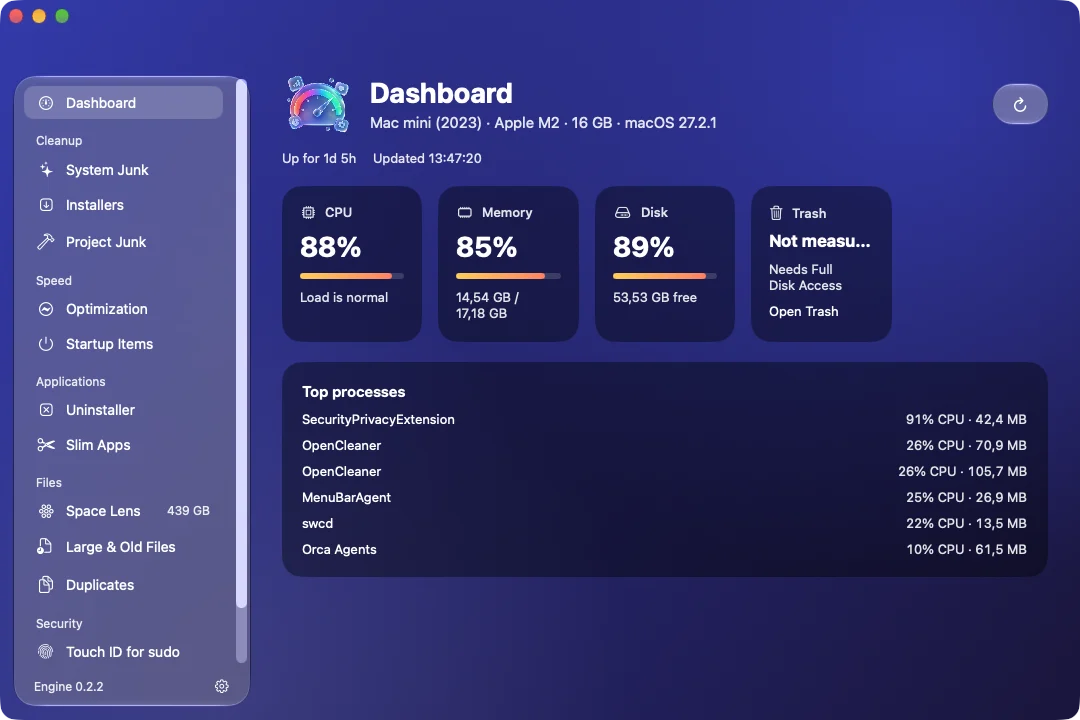
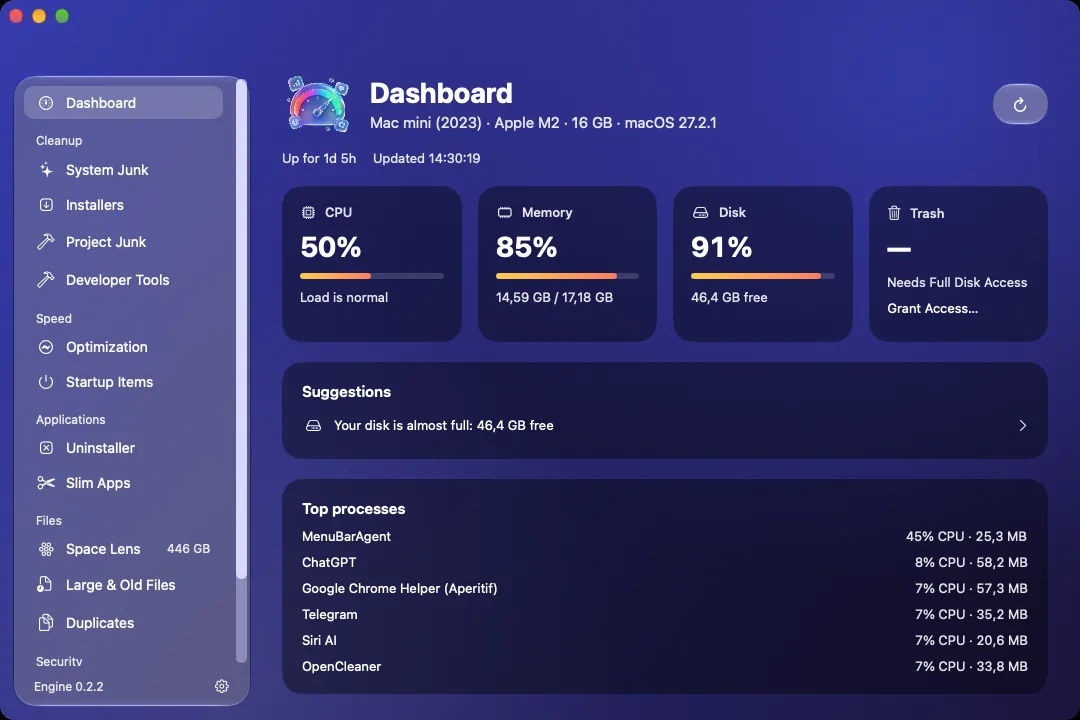
Settings > Permissions, Trash tile access link, four dashboard columns
- A Permissions tab lists Full Disk Access, App Management and Notifications:
  why each is needed, whether it is granted, and a button to its pane.
- The Trash tile without Full Disk Access shows — and a Grant Access… link.
- The dashboard tiles share the width in four columns (adaptive columns left
  an empty fifth slot and wrapped the tile text).
- Site screenshots retaken (no stale self entry, twins with paths).

diff --git a/macos/Sources/OpenCleaner/PermissionsSettings.swift b/macos/Sources/OpenCleaner/PermissionsSettings.swift
@@ -1,0 +1,86 @@
+import SwiftUI
+import UserNotifications
+
+/// Settings › Permissions: what OpenCleaner may need from macOS, whether it has it, and a
+/// button straight to the right pane of System Settings.
+struct PermissionsSettings: View {
+    @State private var fullDisk: Bool?
+    @State private var notifications: Bool?
+
+    var body: some View {
+        Form {
+            Section {
+                row(icon: "externaldrive.badge.checkmark",
+                    title: String(localized: "Full Disk Access"),
+                    why: String(localized: "Measure and empty the Trash, clean Mail attachments and read which apps have privacy permissions."),
+                    granted: fullDisk,
+                    pane: "com.apple.preference.security?Privacy_AllFiles")
+                row(icon: "app.badge.checkmark",
+                    title: String(localized: "App Management"),
+                    why: String(localized: "Uninstall apps and slim them. macOS asks the first time; allow it here if you declined."),
+                    granted: nil,
+                    pane: "com.apple.preference.security?Privacy_AppBundles")
+                row(icon: "bell.badge",
+                    title: String(localized: "Notifications"),
+                    why: String(localized: "Report scheduled cleaning and warn when the disk is almost full."),
+                    granted: notifications,
+                    pane: "com.apple.Notifications-Settings.extension?id=\(Bundle.main.bundleIdentifier ?? "")")
+            } footer: {
+                Note("Not in the list? Click + under the list and choose OpenCleaner in Applications. After you change a permission, come back here: the status updates. Some readings (like the Trash size) need the app to be reopened.")
+            }
+        }
+        .formStyle(.grouped)
+        .fixedSize(horizontal: false, vertical: true)
+        .scrollIndicators(.hidden)
+        .task { await refresh() }
+        .onReceive(NotificationCenter.default.publisher(for: NSApplication.didBecomeActiveNotification)) { _ in
+            Task { await refresh() }
+        }
+    }
+
+    private func row(icon: String, title: String, why: String, granted: Bool?, pane: String) -> some View {
+        HStack(alignment: .top, spacing: 12) {
+            Image(systemName: icon).font(.title2).foregroundStyle(.secondary).frame(width: 28)
+            VStack(alignment: .leading, spacing: 3) {
+                HStack(spacing: 6) {
+                    Text(verbatim: title).fontWeight(.medium)
+                    status(granted)
+                }
+                Text(verbatim: why).font(.callout).foregroundStyle(.secondary).fixedSize(horizontal: false, vertical: true)
+            }
+            Spacer()
+            Button(String(localized: "Open Settings")) {
+                if let url = URL(string: "x-apple.systempreferences:\(pane)") { NSWorkspace.shared.open(url) }
+            }
+        }
+        .padding(.vertical, 4)
+        .accessibilityElement(children: .combine)
+    }
+
+    @ViewBuilder private func status(_ granted: Bool?) -> some View {
+        switch granted {
+        case true?: Label(String(localized: "Allowed"), systemImage: "checkmark.circle.fill").foregroundStyle(.green)
+        case false?: Label(String(localized: "Not allowed"), systemImage: "exclamationmark.circle.fill").foregroundStyle(.orange)
+        case nil: Label(String(localized: "Asked when needed"), systemImage: "questionmark.circle").foregroundStyle(.secondary)
+        }
+    }
+
+    private func refresh() async {
+        fullDisk = Self.hasFullDiskAccess()
+        let settings = await UNUserNotificationCenter.current().notificationSettings()
+        notifications = switch settings.authorizationStatus {
+        case .authorized, .provisional, .ephemeral: true
+        case .denied: false
+        default: nil  // not asked yet: asked the first time something is reported
+        }
+    }
+
+    /// The TCC database opens only with Full Disk Access (reading it is all this does).
+    static func hasFullDiskAccess() -> Bool {
+        let tcc = FileManager.default.homeDirectoryForCurrentUser
+            .appendingPathComponent("Library/Application Support/com.apple.TCC/TCC.db")
+        guard let handle = try? FileHandle(forReadingFrom: tcc) else { return false }
+        try? handle.close()
+        return true
+    }
+}

diff --git a/macos/Sources/OpenCleaner/Pages.swift b/macos/Sources/OpenCleaner/Pages.swift
@@ -37,7 +37,8 @@ struct DashboardPage: View {
                 if let error = stream.error { ErrorBanner(message: error) { stream.refresh() } }
 
                 GlassEffectContainer(spacing: 16) {
-                    LazyVGrid(columns: [GridItem(.adaptive(minimum: 140), spacing: 16)], spacing: 16) {
+                    // exactly the four tiles, sharing the width (adaptive columns left an empty fifth slot)
+                    LazyVGrid(columns: Array(repeating: GridItem(.flexible(), spacing: 16), count: 4), spacing: 16) {
                         Tile(replay: stream.replay, title: String(localized: "CPU"), icon: "cpu", value: percent(s.cpu.usage.double), fraction: (s.cpu.usage.double ?? 0) / 100,
                              detail: Self.load(s.cpu))
                             .help(s.cpu.load1.double.map { String(localized: "Load average \(String(format: "%.1f", $0)) on \(Int(s.cpu.cores.double ?? 0)) cores") } ?? "")
@@ -153,14 +154,26 @@ struct DashboardPage: View {
     /// Unknown size: macOS hides the Trash from apps without Full Disk Access.
     private func trashTile(_ size: Double?) -> some View {
         let value = switch size {
-        case nil: String(localized: "Not measured")
+        case nil: "—"
         case 0: String(localized: "Empty")
         case let n: bytes(n)
         }
         return Tile(title: String(localized: "Trash"), icon: "trash", value: value, fraction: nil,
                     detail: size == nil ? String(localized: "Needs Full Disk Access") : nil) {
-            Button(String(localized: "Open Trash"), action: openTrash).buttonStyle(.link).font(.app(13))
+            if size == nil {
+                // where the user grants it; the reading works after the app is reopened
+                Button(String(localized: "Grant Access…"), action: openFullDiskAccess).buttonStyle(.link).font(.app(13))
+            } else {
+                Button(String(localized: "Open Trash"), action: openTrash).buttonStyle(.link).font(.app(13))
+            }
         }
+    }
+}
+
+/// System Settings › Privacy & Security › Full Disk Access.
+func openFullDiskAccess() {
+    if let url = URL(string: "x-apple.systempreferences:com.apple.preference.security?Privacy_AllFiles") {
+        NSWorkspace.shared.open(url)
     }
 }
 
@@ -360,6 +373,7 @@ struct SettingsView: View {
             Tab(String(localized: "Cleaning"), systemImage: "sparkles") { CleaningSettings() }
             Tab(String(localized: "Automation"), systemImage: "calendar.badge.clock") { AutomationSettings() }
             Tab(String(localized: "Dashboard"), systemImage: "gauge.with.dots.needle.50percent") { DashboardSettings() }
+            Tab(String(localized: "Permissions"), systemImage: "lock.shield") { PermissionsSettings() }
         }
         .frame(width: 560 * max(1, TextScale.shared.value))
         .font(TextScale.shared.value == 1 ? nil : .app(13))
